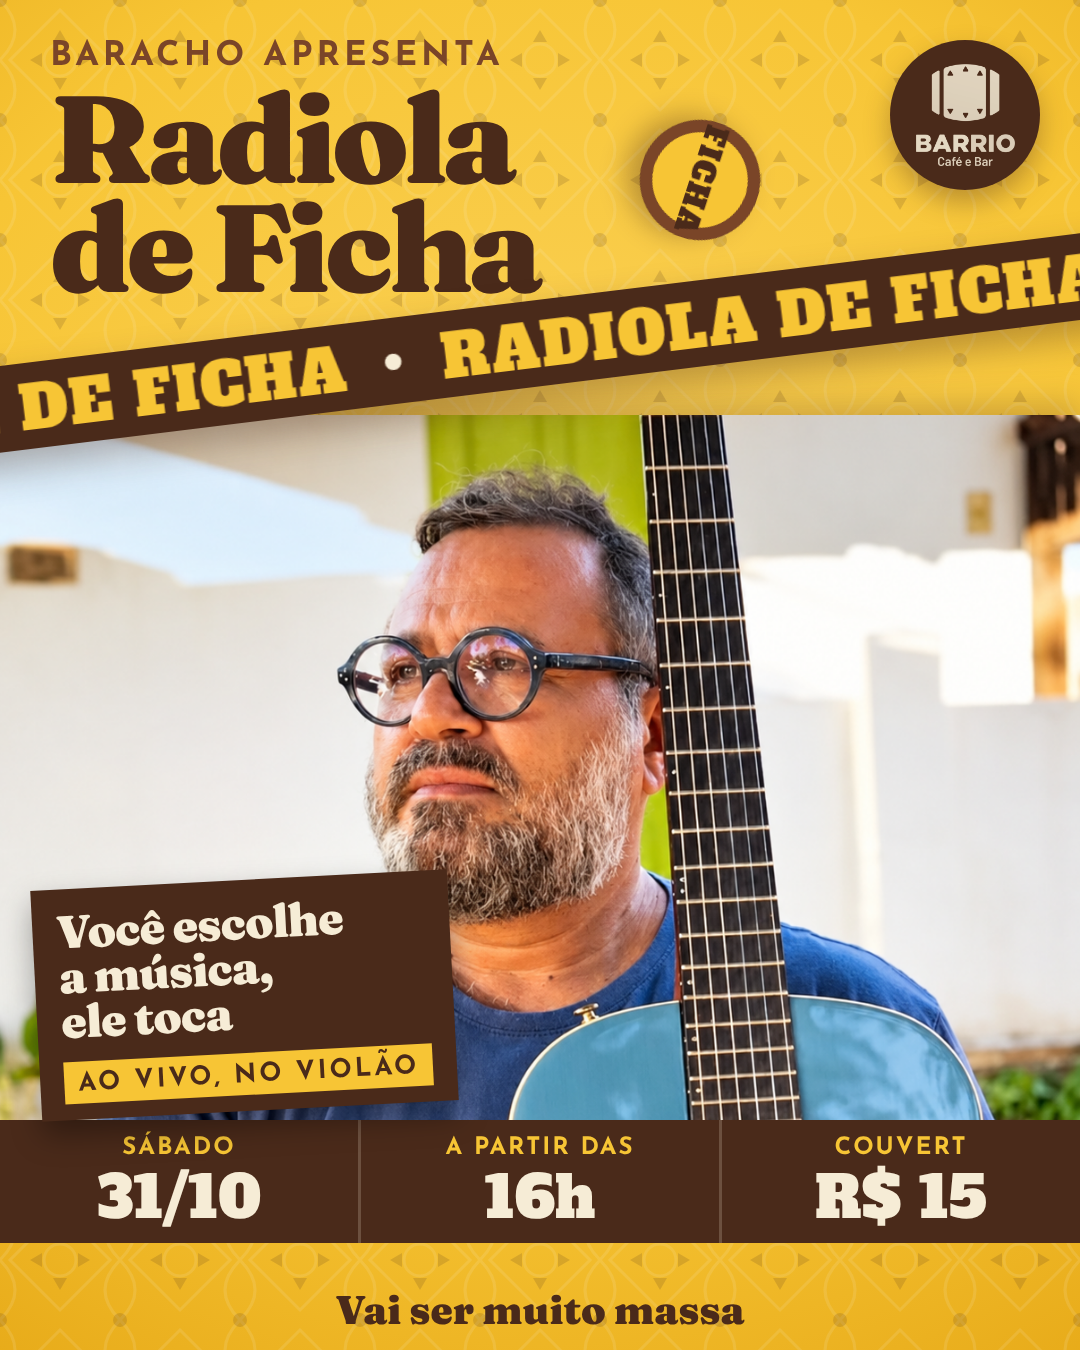
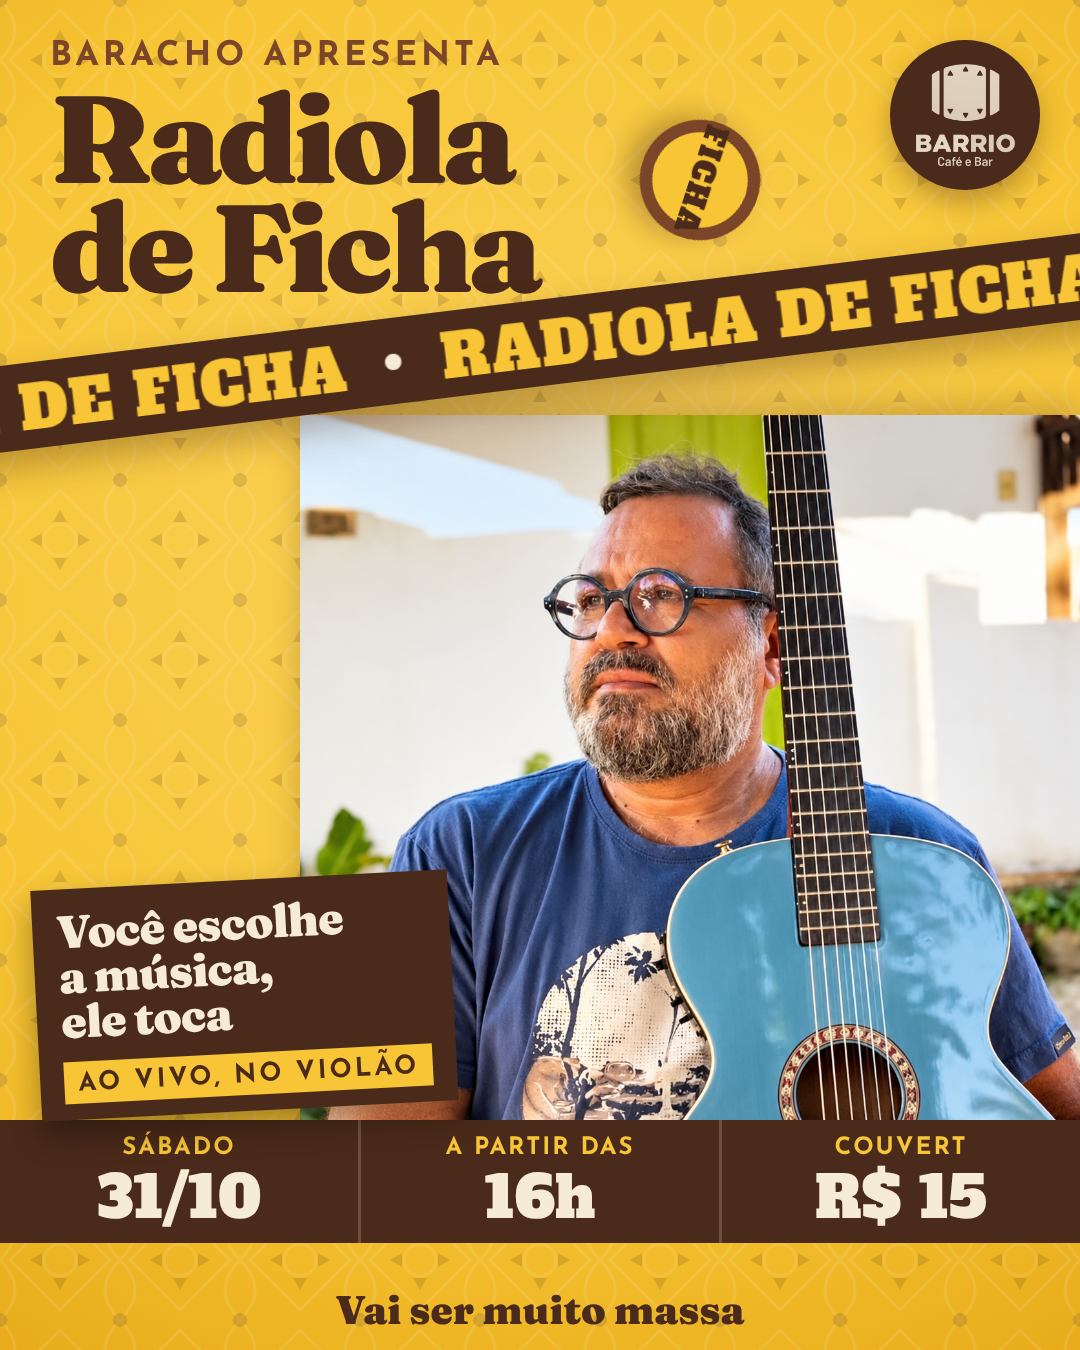
Radiola de Ficha: foto do WhatsApp para a direita, placa fora do rosto
Claude-Session: https://claude.ai/code/session_01DpBscE2ZgPUbFxmtBxoVQf

diff --git a/pecas/2026-10-31-radiola-de-ficha/whatsapp.html b/pecas/2026-10-31-radiola-de-ficha/whatsapp.html
@@ -9,7 +9,7 @@
 <style>.whats{width:1080px;height:1350px}
 .topo{position:absolute;top:40px;left:50px} .apresenta{font-size:34px} .titulo{font-size:124px;margin-top:10px}
 .logo-barrio{top:40px;right:40px;width:150px;height:150px}
-.foto-cheia{top:415px;height:705px} .foto-cheia img{object-position:50% 0}
+.foto-cheia{top:415px;height:705px;left:300px} .foto-cheia img{object-position:50% 0}
 .letreiro{top:300px} .letreiro span{font-size:60px;padding:16px 0 10px}
 .adesivo{top:880px;left:36px;padding:20px 24px 16px} .adesivo .escolhe{font-size:46px} .ao-vivo{font-size:26px;padding:10px 14px 6px}
 .ficha{top:120px;left:640px;width:120px;height:120px} .ficha b{font-size:30px}
